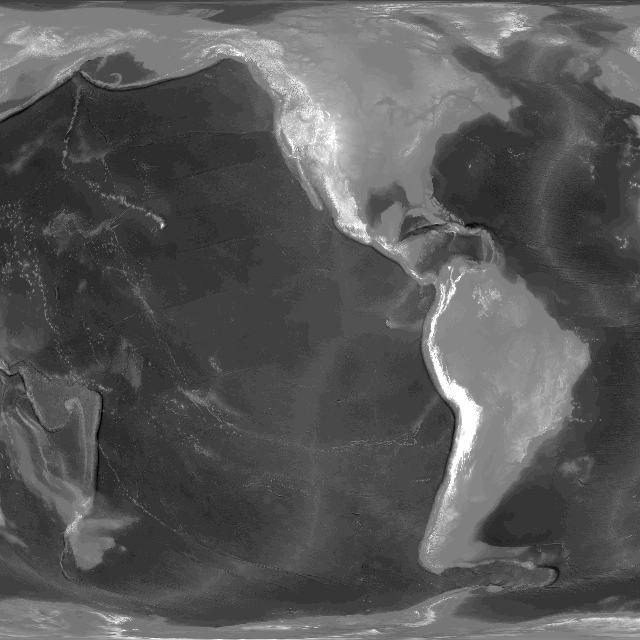
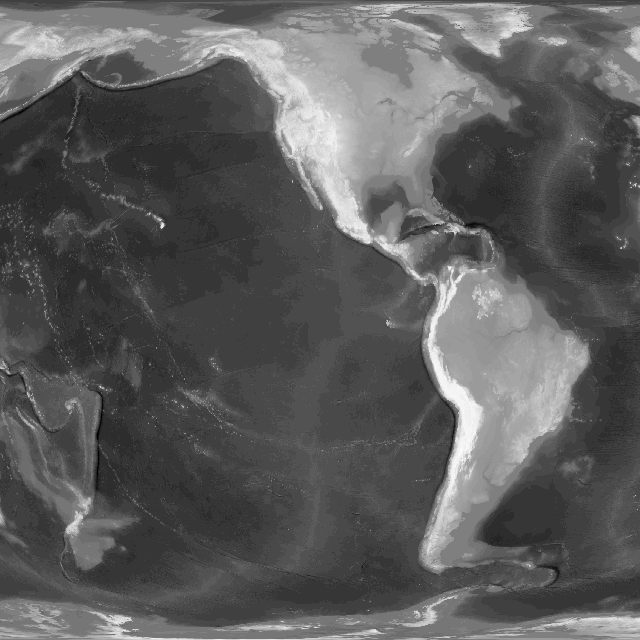
fix: mountains

diff --git a/src/main/java/net/yazloysasha/tfcrealworld/mixin/world/region/AnnotateBiomeAltitudeMixin.java b/src/main/java/net/yazloysasha/tfcrealworld/mixin/world/region/AnnotateBiomeAltitudeMixin.java
@@ -1,23 +1,28 @@
 package net.yazloysasha.tfcrealworld.mixin.world.region;
 
+import it.unimi.dsi.fastutil.ints.IntArrayFIFOQueue;
+import java.util.BitSet;
 import net.dries007.tfc.world.region.AnnotateBiomeAltitude;
 import net.dries007.tfc.world.region.Region;
 import net.dries007.tfc.world.region.RegionGenerator;
+import net.minecraft.util.RandomSource;
 import net.yazloysasha.tfcrealworld.config.TFCRealWorldConfig;
 import net.yazloysasha.tfcrealworld.util.registry.DivergenceNoiseRegistry;
 import net.yazloysasha.tfcrealworld.world.noise.png.PNGDivergenceNoise;
 import net.yazloysasha.tfcrealworld.world.region.MapTectonics;
+import net.yazloysasha.tfcrealworld.world.region.calculator.AltitudeCalculator;
+import org.jetbrains.annotations.Nullable;
 import org.spongepowered.asm.mixin.Mixin;
+import org.spongepowered.asm.mixin.Unique;
 import org.spongepowered.asm.mixin.injection.At;
 import org.spongepowered.asm.mixin.injection.Inject;
 import org.spongepowered.asm.mixin.injection.callback.CallbackInfo;
 
-/**
- * Overrides biome altitude annotation logic when using altitude map.
- * Instead of BFS from mountains, directly calculates biomeAltitude based on baseLandHeight from map.
- */
 @Mixin(value = AnnotateBiomeAltitude.class, remap = false)
 public class AnnotateBiomeAltitudeMixin {
+
+  @Unique
+  private static final short FLAG_MOUNTAIN = 0b10000;
 
   @Inject(method = "apply", at = @At("HEAD"), cancellable = true)
   private void tfcrealworld$overrideBiomeAltitude(
@@ -25,15 +30,14 @@ public class AnnotateBiomeAltitudeMixin {
     CallbackInfo ci
   ) {
     if (TFCRealWorldConfig.ALTITUDE_FROM_MAP.get()) {
-      calculateBiomeAltitudeFromMap(context.region);
+      new AltitudeCalculator().calculate(context.region, context.generator());
+      tfcrealworld$annotateFromMap(context.region, context.random);
       tfcrealworld$applyMapMountainFlags(context.region, context.generator());
       ci.cancel();
     }
   }
 
-  /**
-   * Coastal / volcanic flags for map mountains (procedural placeRange is skipped elsewhere).
-   */
+  @Unique
   private static void tfcrealworld$applyMapMountainFlags(
     Region region,
     RegionGenerator generator
@@ -63,26 +67,198 @@ public class AnnotateBiomeAltitudeMixin {
     }
   }
 
-  /**
-   * Calculates biomeAltitude directly based on baseLandHeight from altitude map
-   */
-  private void calculateBiomeAltitudeFromMap(Region region) {
-    final int WIDTH = AnnotateBiomeAltitude.WIDTH;
+  @Unique
+  private static void tfcrealworld$annotateFromMap(
+    Region region,
+    RandomSource random
+  ) {
+    final int width = AnnotateBiomeAltitude.WIDTH;
 
     for (final var point : region.points()) {
-      if (point != null && point.land()) {
-        final int baseLandHeight = Byte.toUnsignedInt(point.baseLandHeight);
+      if (point == null || !point.land()) {
+        continue;
+      }
+      final int baseLandHeight = Byte.toUnsignedInt(point.baseLandHeight);
+      if (tfcrealworld$isMapMountainCore(region, point, baseLandHeight)) {
+        point.setMountain();
+        point.biomeAltitude = (byte) (3 * width);
+      } else {
+        tfcrealworld$clearMountain(point);
+        point.biomeAltitude = 0;
+      }
+    }
 
-        if (baseLandHeight >= 16) {
-          point.setMountain();
-          point.biomeAltitude = (byte) (3 * WIDTH);
-        } else if (baseLandHeight >= 8) {
-          point.biomeAltitude = (byte) (2 * WIDTH);
-        } else if (baseLandHeight >= 3) {
-          point.biomeAltitude = (byte) WIDTH;
-        } else {
-          point.biomeAltitude = 0;
+    tfcrealworld$bfsFromMountains(region, random, width);
+    tfcrealworld$raiseByLandHeight(region, width);
+    tfcrealworld$capBiomeAltitudeByMapHeight(region, width);
+  }
+
+  /**
+   * Clamp vanilla mountain BFS to the discrete band allowed by PNG height.
+   */
+  @Unique
+  private static void tfcrealworld$capBiomeAltitudeByMapHeight(
+    Region region,
+    int width
+  ) {
+    for (final var point : region.points()) {
+      if (point == null || !point.land() || point.mountain()) {
+        continue;
+      }
+      final int maxDisc = tfcrealworld$maxDiscreteAltitudeForLandHeight(
+        Byte.toUnsignedInt(point.baseLandHeight)
+      );
+      if (point.discreteBiomeAltitude() > maxDisc) {
+        point.biomeAltitude = (byte) (maxDisc * width);
+      }
+    }
+  }
+
+  @Unique
+  private static int tfcrealworld$maxDiscreteAltitudeForLandHeight(
+    int baseLandHeight
+  ) {
+    if (baseLandHeight >= 16) {
+      return 3;
+    }
+    if (baseLandHeight >= 11) {
+      return 2;
+    }
+    if (baseLandHeight >= 4) {
+      return 1;
+    }
+    return 0;
+  }
+
+  @Unique
+  private static boolean tfcrealworld$isMapMountainCore(
+    Region region,
+    Region.Point point,
+    int baseLandHeight
+  ) {
+    if (baseLandHeight >= 18) {
+      return true;
+    }
+    if (baseLandHeight >= 15) {
+      if (tfcrealworld$countLandNeighborsAtLeastHeight(region, point, 16) > 0) {
+        return true;
+      }
+      if (
+        tfcrealworld$countLandNeighborsAtLeastHeight(region, point, 15) >= 2
+      ) {
+        return true;
+      }
+    }
+    if (baseLandHeight < 16) {
+      return false;
+    }
+    return tfcrealworld$countLandNeighborsAtLeastHeight(region, point, 14) > 0;
+  }
+
+  @Unique
+  private static int tfcrealworld$countLandNeighborsAtLeastHeight(
+    Region region,
+    Region.Point point,
+    int minHeight
+  ) {
+    int count = 0;
+    for (int dz = -1; dz <= 1; dz++) {
+      for (int dx = -1; dx <= 1; dx++) {
+        if (dx == 0 && dz == 0) {
+          continue;
         }
+        final Region.Point neighbor = region.atOffset(point.index, dx, dz);
+        if (
+          neighbor != null &&
+          neighbor.land() &&
+          Byte.toUnsignedInt(neighbor.baseLandHeight) >= minHeight
+        ) {
+          count++;
+        }
+      }
+    }
+    return count;
+  }
+
+  @Unique
+  private static void tfcrealworld$clearMountain(Region.Point point) {
+    if (!point.mountain()) {
+      return;
+    }
+    final RegionPointAccessor flags = (RegionPointAccessor) (Object) point;
+    flags.tfcrealworld$setFlags(
+      (short) (flags.tfcrealworld$getFlags() & ~FLAG_MOUNTAIN)
+    );
+  }
+
+  @Unique
+  private static void tfcrealworld$bfsFromMountains(
+    Region region,
+    RandomSource random,
+    int width
+  ) {
+    final BitSet explored = new BitSet(region.size());
+    final IntArrayFIFOQueue queue = new IntArrayFIFOQueue();
+
+    for (final var point : region.points()) {
+      if (point != null && point.land() && point.mountain()) {
+        point.biomeAltitude = (byte) (3 * width);
+        queue.enqueue(point.index);
+        explored.set(point.index);
+      }
+    }
+
+    while (!queue.isEmpty()) {
+      final int last = queue.dequeueInt();
+      final Region.Point lastPoint = region.atIndex(last);
+      final int nextAltitude = lastPoint.biomeAltitude - 1;
+      if (nextAltitude < 0) {
+        continue;
+      }
+
+      for (int dx = -1; dx <= 1; dx++) {
+        for (int dz = -1; dz <= 1; dz++) {
+          @Nullable
+          final Region.Point point = region.atOffset(last, dx, dz);
+          if (
+            point != null &&
+            point.land() &&
+            point.biomeAltitude == 0 &&
+            !explored.get(point.index)
+          ) {
+            if (
+              random.nextInt(13) == 0 && lastPoint.biomeAltitude != 3 * width
+            ) {
+              point.biomeAltitude = lastPoint.biomeAltitude;
+              queue.enqueueFirst(point.index);
+            } else {
+              point.biomeAltitude = (byte) nextAltitude;
+              queue.enqueue(point.index);
+            }
+            explored.set(point.index);
+          }
+        }
+      }
+    }
+  }
+
+  @Unique
+  private static void tfcrealworld$raiseByLandHeight(Region region, int width) {
+    for (final var point : region.points()) {
+      if (
+        point == null ||
+        !point.land() ||
+        point.mountain() ||
+        point.discreteBiomeAltitude() != 0
+      ) {
+        continue;
+      }
+      final int baseLandHeight = Byte.toUnsignedInt(point.baseLandHeight);
+      if (baseLandHeight >= 4) {
+        point.biomeAltitude = (byte) width;
+      }
+      if (point.discreteBiomeAltitude() == 1 && baseLandHeight >= 11) {
+        point.biomeAltitude = (byte) (2 * width);
       }
     }
   }

diff --git a/src/main/java/net/yazloysasha/tfcrealworld/world/noise/png/BasePNGNoise.java b/src/main/java/net/yazloysasha/tfcrealworld/world/noise/png/BasePNGNoise.java
@@ -1,6 +1,8 @@
 package net.yazloysasha.tfcrealworld.world.noise.png;
 
 import java.awt.image.BufferedImage;
+import java.awt.image.IndexColorModel;
+import java.awt.image.Raster;
 import java.io.IOException;
 import java.io.InputStream;
 import java.util.HashMap;
@@ -48,9 +50,7 @@ public abstract class BasePNGNoise implements Noise2D {
 
     this.width = image.getWidth();
     this.height = image.getHeight();
-    this.pixels = new int[width * height];
-
-    image.getRGB(0, 0, width, height, pixels, 0, width);
+    this.pixels = copyPixelsWithoutColorManagement(image);
 
     this.centerX = width / 2.0;
     this.centerZ = height / 2.0;
@@ -160,10 +160,36 @@ public abstract class BasePNGNoise implements Noise2D {
 
   protected abstract double transformBrightness(double brightness);
 
+  /**
+   * {@code ImageIO.getRGB} on gray PNGs applies sRGB and skews mid-tones.
+   */
+  private static int[] copyPixelsWithoutColorManagement(BufferedImage image) {
+    final int width = image.getWidth();
+    final int height = image.getHeight();
+    final int[] pixels = new int[width * height];
+    final Raster raster = image.getRaster();
+    if (
+      raster.getNumBands() == 1 &&
+      !(image.getColorModel() instanceof IndexColorModel)
+    ) {
+      final int[] samples = raster.getPixels(0, 0, width, height, (int[]) null);
+      for (int i = 0; i < samples.length; i++) {
+        final int gray = samples[i] & 0xFF;
+        pixels[i] = 0xFF000000 | (gray << 16) | (gray << 8) | gray;
+      }
+      return pixels;
+    }
+    image.getRGB(0, 0, width, height, pixels, 0, width);
+    return pixels;
+  }
+
   protected double getBrightness(int rgb) {
     int r = (rgb >> 16) & 0xFF;
     int g = (rgb >> 8) & 0xFF;
     int b = rgb & 0xFF;
+    if (r == g && g == b) {
+      return r;
+    }
     return 0.299 * r + 0.587 * g + 0.114 * b;
   }
 

diff --git a/src/main/java/net/yazloysasha/tfcrealworld/world/region/calculator/AltitudeCalculator.java b/src/main/java/net/yazloysasha/tfcrealworld/world/region/calculator/AltitudeCalculator.java
@@ -6,9 +6,6 @@ import net.yazloysasha.tfcrealworld.config.TFCRealWorldConfig;
 import net.yazloysasha.tfcrealworld.util.registry.AltitudeNoiseRegistry;
 import net.yazloysasha.tfcrealworld.world.noise.png.PNGAltitudeNoise;
 
-/**
- * Calculator for land height and water depth based on altitude map.
- */
 public class AltitudeCalculator extends RegionPointCalculator {
 
   @Override
@@ -17,19 +14,21 @@ public class AltitudeCalculator extends RegionPointCalculator {
       return;
     }
 
-    final PNGAltitudeNoise altitudeNoise = AltitudeNoiseRegistry.get(generator);
+    PNGAltitudeNoise altitudeNoise = AltitudeNoiseRegistry.get(generator);
     if (altitudeNoise == null) {
-      return;
+      altitudeNoise = new PNGAltitudeNoise(
+        TFCRealWorldConfig.HORIZONTAL_SCALE.get(),
+        TFCRealWorldConfig.VERTICAL_SCALE.get()
+      );
+      AltitudeNoiseRegistry.register(generator, altitudeNoise);
     }
 
+    final PNGAltitudeNoise noise = altitudeNoise;
     forEachPoint(region, point -> {
       if (point.land()) {
-        point.baseLandHeight = altitudeNoise.getBaseLandHeight(
-          point.x,
-          point.z
-        );
+        point.baseLandHeight = noise.getBaseLandHeight(point.x, point.z);
       } else {
-        point.oceanDepth = altitudeNoise.getBaseOceanDepth(point.x, point.z);
+        point.oceanDepth = noise.getBaseOceanDepth(point.x, point.z);
       }
     });
   }

diff --git a/src/main/java/net/yazloysasha/tfcrealworld/world/noise/png/PNGAltitudeNoise.java b/src/main/java/net/yazloysasha/tfcrealworld/world/noise/png/PNGAltitudeNoise.java
@@ -28,6 +28,13 @@ public class PNGAltitudeNoise extends BasePNGNoise {
     return normalized * 24.0;
   }
 
+  @Override
+  protected double sampleBrightness(double imageX, double imageZ) {
+    final int x = (int) Math.round(Math.clamp(imageX, 0, width - 1));
+    final int z = (int) Math.round(Math.clamp(imageZ, 0, height - 1));
+    return getBrightness(pixels[z * width + x]);
+  }
+
   public byte getBaseLandHeight(double x, double z) {
     double[] imageCoords = tileToImage(x, z);
     double brightness = sampleBrightness(imageCoords[0], imageCoords[1]);

diff --git a/src/main/java/net/yazloysasha/tfcrealworld/mixin/world/region/RegionPointAccessor.java b/src/main/java/net/yazloysasha/tfcrealworld/mixin/world/region/RegionPointAccessor.java
@@ -1,0 +1,14 @@
+package net.yazloysasha.tfcrealworld.mixin.world.region;
+
+import net.dries007.tfc.world.region.Region;
+import org.spongepowered.asm.mixin.Mixin;
+import org.spongepowered.asm.mixin.gen.Accessor;
+
+@Mixin(value = Region.Point.class, remap = false)
+public interface RegionPointAccessor {
+  @Accessor("flags")
+  short tfcrealworld$getFlags();
+
+  @Accessor("flags")
+  void tfcrealworld$setFlags(short flags);
+}
